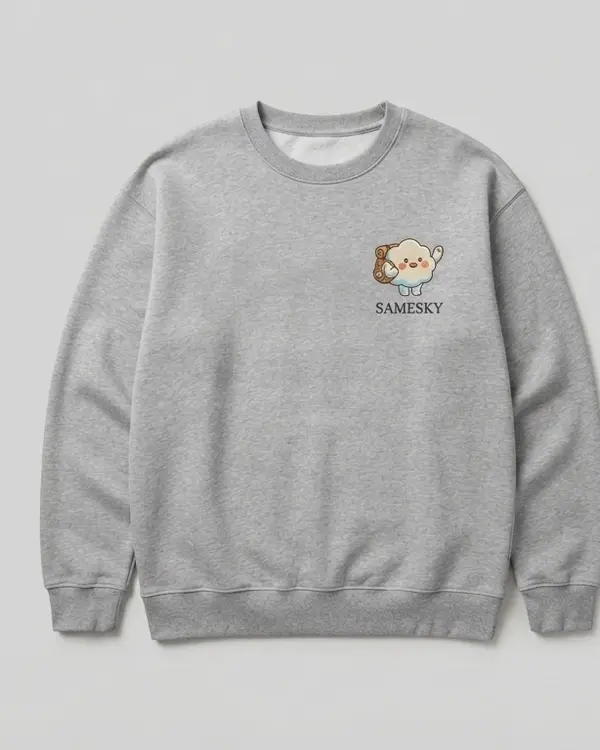
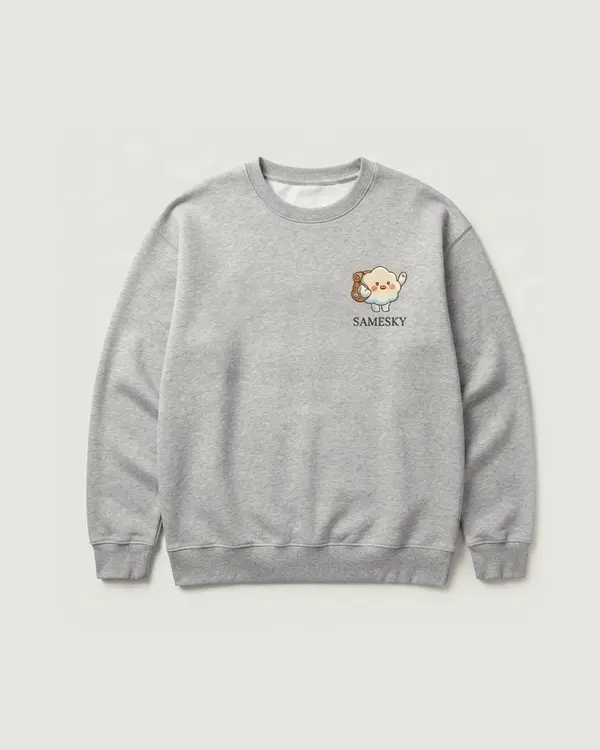
Make product cards precise and consistent
- Re-frame every product photo with scripts/frame-product-photo.sh: same garment
  scale, centred on a 600x750 canvas, backdrop matched to the card grey (#E7E5E1)
- Always reserve the note line so price and swatches line up across a row
- Keep the New Arrivals row inside the page container (exactly 4 cards on desktop)
- Replace the drawn garment silhouette with a 'Foto segera hadir' placeholder

Claude-Session: https://claude.ai/code/session_01VVYpToKuQBwR7ixhMMUjHi

diff --git a/src/features/products/GarmentPlaceholder.tsx b/src/features/products/GarmentPlaceholder.tsx
@@ -1,74 +1,27 @@
-import type { GarmentKind } from "./types";
+import { ImageOff } from "lucide-react";
+import { Mascot } from "@/shared/components/Mascot";
 
 type GarmentPlaceholderProps = {
-  kind: GarmentKind;
   color: string;
   side: "front" | "back";
   label: string;
 };
 
-const SHORT = "M98 72 L128 58 Q150 74 172 58 L202 72 L252 108 L232 146 L208 132 L208 318 Q150 328 92 318 L92 132 L68 146 L48 108 Z";
-const LONG = "M98 72 L128 58 Q150 74 172 58 L202 72 L238 100 L262 252 L236 260 L208 150 L208 318 Q150 328 92 318 L92 150 L64 260 L38 252 L62 100 Z";
-
-function isDark(hex: string) {
-  const n = parseInt(hex.replace("#", ""), 16);
-  const [r, g, b] = [(n >> 16) & 255, (n >> 8) & 255, n & 255];
-  return 0.2126 * r + 0.7152 * g + 0.0722 * b < 140;
-}
-
-/** Tinted garment silhouette shown until a real product photo exists for that colour. */
-export function GarmentPlaceholder({ kind, color, side, label }: GarmentPlaceholderProps) {
-  const ink = isDark(color) ? "#F8F4EC" : "#6B4528";
-  const long = kind === "crewneck" || kind === "hoodie";
+/**
+ * Shown while a product colour has no photo yet. It keeps the card's look (same backdrop,
+ * same proportions) and reflects the chosen colour, instead of an off-brand drawing.
+ */
+export function GarmentPlaceholder({ color, side, label }: GarmentPlaceholderProps) {
   return (
-    <svg viewBox="0 0 300 375" role="img" aria-label={label} className="h-full w-full">
-      <rect width="300" height="375" fill="#E7E5E1" />
-      <ellipse cx="150" cy="338" rx="92" ry="8" fill="#000" opacity="0.06" />
-      <path d={long ? LONG : SHORT} fill={color} stroke="#000" strokeOpacity="0.14" strokeWidth="2" strokeLinejoin="round" />
-      {long && (
-        <g fill="#000" opacity="0.08">
-          <rect x="92" y="304" width="116" height="14" rx="4" />
-        </g>
-      )}
-      {side === "front" ? (
-        <path d="M128 58 Q150 80 172 58" fill="none" stroke="#000" strokeOpacity="0.18" strokeWidth="4" />
-      ) : (
-        <path d="M128 58 Q150 66 172 58" fill="none" stroke="#000" strokeOpacity="0.18" strokeWidth="4" />
-      )}
-      {kind === "hoodie" &&
-        (side === "front" ? (
-          <>
-            <path d="M120 64 Q150 26 180 64 Q150 92 120 64Z" fill={color} stroke="#000" strokeOpacity="0.16" strokeWidth="2" />
-            <path d="M142 80 v38 M158 80 v38" stroke={ink} strokeOpacity="0.6" strokeWidth="2" strokeLinecap="round" />
-            <path d="M112 230 h76 l-8 46 h-60 z" fill="#000" opacity="0.07" />
-          </>
-        ) : (
-          <path d="M114 66 Q150 18 186 66 Q170 112 150 114 Q130 112 114 66Z" fill={color} stroke="#000" strokeOpacity="0.16" strokeWidth="2" />
-        ))}
-      {(kind === "polo" || kind === "shirt") && side === "front" && (
-        <>
-          <path d="M128 58 L142 90 L150 70 Z M172 58 L158 90 L150 70 Z" fill={color} stroke="#000" strokeOpacity="0.2" strokeWidth="2" strokeLinejoin="round" />
-          <path d="M150 72 v46" stroke="#000" strokeOpacity="0.16" strokeWidth="2" />
-          <circle cx="150" cy="92" r="2.6" fill={ink} opacity="0.7" />
-          <circle cx="150" cy="108" r="2.6" fill={ink} opacity="0.7" />
-        </>
-      )}
-      {side === "front" ? (
-        <text x="184" y="128" textAnchor="middle" fontSize="10" fontWeight="700" letterSpacing="1.5" fill={ink} fontFamily="system-ui, sans-serif">
-          SAMESKY
-        </text>
-      ) : (
-        <g fill={ink}>
-          <path
-            transform="translate(126 150) scale(0.5)"
-            d="M24 70a22 22 0 0 1 4-43 30 30 0 0 1 56-5 22 22 0 0 1 14 48z"
-            opacity="0.85"
-          />
-          <text x="150" y="212" textAnchor="middle" fontSize="11" letterSpacing="1.5" fontFamily="system-ui, sans-serif">
-            SAME SKY
-          </text>
-        </g>
-      )}
-    </svg>
+    <div role="img" aria-label={`${label} (foto segera hadir)`} className="absolute inset-0 flex flex-col items-center justify-center bg-photo">
+      <div aria-hidden className="absolute inset-0 opacity-25" style={{ background: `radial-gradient(circle at 50% 42%, ${color} 0%, transparent 70%)` }} />
+      <div className="relative flex aspect-square w-[58%] items-center justify-center rounded-full shadow-soft" style={{ backgroundColor: color }}>
+        <div className="absolute inset-[6%] rounded-full border-2 border-dashed border-white/50" />
+        <Mascot pose={side === "front" ? "wave" : "walk"} size={160} decorative className="relative h-auto w-[78%] drop-shadow-md" />
+      </div>
+      <span className="relative mt-4 inline-flex items-center gap-1.5 rounded-full bg-cream/90 px-3 py-1 text-xs font-semibold text-ink-soft">
+        <ImageOff aria-hidden className="h-3.5 w-3.5" /> Foto segera hadir
+      </span>
+    </div>
   );
 }

diff --git a/src/features/products/NewArrivals.tsx b/src/features/products/NewArrivals.tsx
@@ -4,7 +4,6 @@ import { useEffect, useRef, useState } from "react";
 import { ChevronLeft, ChevronRight } from "lucide-react";
 import { Reveal } from "@/shared/components/Reveal";
 import { SectionHeading } from "@/shared/components/SectionHeading";
-import { cn } from "@/shared/lib/cn";
 import { ProductCard } from "./ProductCard";
 import { newArrivals } from "./products.data";
 
@@ -37,7 +36,7 @@ export function NewArrivals() {
   const arrow = "flex h-11 w-11 items-center justify-center rounded-full border-2 border-midnight/15 text-midnight transition hover:border-midnight hover:bg-midnight hover:text-cream disabled:pointer-events-none disabled:opacity-35";
 
   return (
-    <section id="shop" aria-labelledby="new-title" className="bg-cream pt-20 sm:pt-28">
+    <section id="shop" aria-labelledby="new-title" className="overflow-hidden bg-cream pt-20 sm:pt-28">
       <div className="mx-auto max-w-7xl px-4 sm:px-6 lg:px-8">
         <div className="flex flex-wrap items-end justify-between gap-6">
           <Reveal>
@@ -58,24 +57,25 @@ export function NewArrivals() {
             </button>
           </div>
         </div>
-      </div>
 
-      <ul
-        ref={trackRef}
-        aria-label="Produk terbaru"
-        className={cn(
-          "mt-10 flex snap-x snap-mandatory gap-4 overflow-x-auto pb-4 sm:gap-6",
-          // Align the first card with the page container, let the row bleed to the right edge.
-          "scroll-px-4 px-4 sm:scroll-px-6 sm:px-6 lg:scroll-px-[max(2rem,calc((100vw-80rem)/2+2rem))] lg:px-[max(2rem,calc((100vw-80rem)/2+2rem))]",
-          "[scrollbar-width:none] [&::-webkit-scrollbar]:hidden",
-        )}
-      >
-        {newArrivals.map((product, i) => (
-          <Reveal as="li" key={product.id} delay={i * 0.06} className="w-[72%] shrink-0 snap-start sm:w-[42%] lg:w-[calc((80rem-4rem-4.5rem)/4)]">
-            <ProductCard product={product} />
-          </Reveal>
-        ))}
-      </ul>
+        <ul
+          ref={trackRef}
+          aria-label="Produk terbaru"
+          className="-mx-2 mt-10 flex scroll-px-2 snap-x snap-mandatory gap-4 overflow-x-auto px-2 pb-4 [scrollbar-width:none] sm:gap-6 [&::-webkit-scrollbar]:hidden"
+        >
+          {newArrivals.map((product, i) => (
+            <Reveal
+              as="li"
+              key={product.id}
+              delay={i * 0.06}
+              // Exactly 4 cards per view on desktop (3 gaps of 1.5rem), with a peek of the next card on smaller screens.
+              className="w-[72%] shrink-0 snap-start sm:w-[calc((100%-1.5rem)/2.3)] lg:w-[calc((100%-4.5rem)/4)]"
+            >
+              <ProductCard product={product} />
+            </Reveal>
+          ))}
+        </ul>
+      </div>
     </section>
   );
 }

diff --git a/src/features/products/ProductCard.tsx b/src/features/products/ProductCard.tsx
@@ -28,7 +28,6 @@ export function ProductCard({ product }: { product: Product }) {
       />
     ) : (
       <GarmentPlaceholder
-        kind={product.kind}
         color={color.hex}
         side={side}
         label={`Ilustrasi ${product.name} warna ${color.name}, tampak ${side === "front" ? "depan" : "belakang"}`}
@@ -94,7 +93,8 @@ export function ProductCard({ product }: { product: Product }) {
       <div className="mt-4 flex flex-1 flex-col px-1">
         <p className="text-xs font-semibold uppercase tracking-[0.14em] text-brown">{collectionLabels[product.collection]}</p>
         <h3 className="mt-1 font-sans text-base font-semibold text-midnight sm:text-lg">{product.name}</h3>
-        {product.note && <p className="text-sm text-ink-soft">{product.note}</p>}
+        {/* Always reserve the note line so price and swatches line up across a row. */}
+        <p className="min-h-[1.375rem] text-sm leading-[1.375rem] text-ink-soft">{product.note ?? "\u00a0"}</p>
         <p className="mt-1 font-semibold text-ink">{formatRupiah(product.price)}</p>
 
         <div className="mt-2 flex flex-wrap items-center gap-x-1" role="group" aria-label={`Pilihan warna ${product.name}`}>

diff --git a/src/features/products/ProductCard.test.tsx b/src/features/products/ProductCard.test.tsx
@@ -41,6 +41,20 @@ describe("ProductCard", () => {
     expect(toggle).toHaveAttribute("aria-pressed", "true");
   });
 
+  it("shows the 'foto segera hadir' placeholder for a colour without photos", async () => {
+    setup();
+    await userEvent.click(screen.getByRole("button", { name: "Warna Midnight Navy" }));
+    expect(screen.getAllByRole("img", { name: /warna Midnight Navy, tampak depan \(foto segera hadir\)/ })).toHaveLength(1);
+  });
+
+  it("reserves the note line even when a product has no note, keeping rows aligned", () => {
+    setup();
+    const heading = screen.getByRole("heading", { name: "Everyday Logo Tee" });
+    const note = heading.nextElementSibling as HTMLElement;
+    expect(note.tagName).toBe("P");
+    expect(note).toHaveClass("min-h-[1.375rem]");
+  });
+
   it("adds the selected colour to the cart and opens the drawer", async () => {
     setup();
     await userEvent.click(screen.getByRole("button", { name: "Warna Dawn Blue" }));

diff --git a/AGENT_MEMORY.md b/AGENT_MEMORY.md
@@ -38,6 +38,7 @@
 | 404 & loading dengan maskot | Done | |
 
 ## 5. Yang sedang dikerjakan sesi ini
+- Sesi 3: perbaikan presisi: semua foto produk diseragamkan, kartu produk selalu menyediakan baris catatan agar harga/swatch sejajar, carousel New Arrivals dikunci ke lebar container (4 kartu pas), placeholder siluet diganti. 54 test lulus.
 - Sesi 2: tambah 5 produk baru (Sky Friends Camp Shirt, Mega Mendung Shirt, Sunrise Linen Shirt, Under the Same Sky Tee, For New Beginnings Tee) + section New Arrivals. 52 test lulus.
 - Selesai: setup project, semua section, tests, lint + typecheck bersih, build produksi sukses.
 - Next step: ganti maskot placeholder dengan file asli dari character sheet user (pose Waving, Walking, Dreaming, Sunset Watching), foto lookbook/community asli, sambungkan newsletter ke penyedia email, checkout.
@@ -45,12 +46,12 @@
 ## 6. Known issues / hutang teknis
 - Maskot di `public/mascot/*.svg` masih PLACEHOLDER buatan (bukan artwork asli). Prioritas: tinggi.
 - Lookbook & Community masih placeholder gradien (field `src` kosong). Prioritas: sedang.
-- 4 produk/warna belum punya foto (pakai `GarmentPlaceholder`). Prioritas: sedang.
+- Everyday Polo, Little Sky Kids Tee, Little Sky Family Set, dan beberapa swatch warna belum punya foto; tampil sebagai `GarmentPlaceholder` (lingkaran warna + maskot + label "Foto segera hadir"). Prioritas: sedang.
 - `/api/newsletter` belum ada rate limiting dan belum meneruskan email ke provider. Prioritas: sedang (wajib sebelum production).
 - Nomor WhatsApp di `site.ts` masih placeholder.
 
 ## 7. Hal yang perlu diketahui agent berikutnya
-- Foto produk di `public/images/products/` hasil crop dari mockup user (kiri = depan, kanan = belakang). Mockup kemeja (sky-friends, mega-mendung, sunrise-linen) dicrop selebar setengah gambar lalu di-pad ke 4:5 dengan warna latar.
+- Foto produk di `public/images/products/` WAJIB dibuat lewat `scripts/frame-product-photo.sh` (dari mockup berdampingan: kiri depan, kanan belakang). Script menyeragamkan ukuran garmen (box 520x610 di kanvas 600x750) dan latar `#E7E5E1` = token `bg-photo`. Jangan crop manual, nanti ukuran/latar tidak konsisten.
 - Produk baru masuk Best Sellers atau New Arrivals lewat flag `newArrival`; jangan buat array terpisah.
 - Env var opsional: `NEXT_PUBLIC_SITE_URL` (untuk metadataBase/Open Graph). Lihat `.env.example`.
 - Jalankan `npm run lint && npm run typecheck && npm test && npm run build` sebelum menutup sesi.

diff --git a/README.md b/README.md
@@ -48,6 +48,7 @@ src/
     ├── config/               # site.ts (kontak, sosmed, menu), mascot.ts (registry gambar maskot)
     ├── hooks/                # useScrolled, useModal (Escape, focus trap, scroll lock)
     └── lib/                  # format Rupiah, sky phase, validasi email, cn()
+scripts/frame-product-photo.sh  # seragamkan framing & warna latar foto produk
 public/
 ├── mascot/                   # PLACEHOLDER maskot: wave, walk, sleep, gaze (.svg)
 └── images/products/          # foto produk (depan/belakang) dari mockup
@@ -59,6 +60,7 @@ public/
 |---|---|
 | **Maskot** | Taruh file asli (PNG/WebP transparan disarankan) di `public/mascot/`, lalu ubah `src` di `src/shared/config/mascot.ts`. Pose: `wave` (Waving), `walk` (Walking), `sleep` (Dreaming), `gaze` (Sunset Watching). |
 | **Logo** | `src/shared/components/Logo.tsx`, saat ini berupa wordmark teks. |
+| **Foto produk baru** | Jalankan `scripts/frame-product-photo.sh <mockup> <nama-depan> <nama-belakang>` untuk mockup berdampingan (depan kiri, belakang kanan). Hasilnya otomatis seukuran dan selatar dengan foto lain. |
 | **Produk** | `src/features/products/products.data.ts`. Set `newArrival: true` agar tampil di New Arrivals, selain itu masuk Best Sellers. Warna tanpa `images` otomatis memakai ilustrasi siluet berwarna. |
 | **Lookbook / Community** | Tambahkan `src` pada tiap entri di `Lookbook.tsx` / `Community.tsx`; tanpa `src` tampil placeholder gradien. |
 | **Kontak & sosmed** | `src/shared/config/site.ts` (nomor WhatsApp masih placeholder). |
